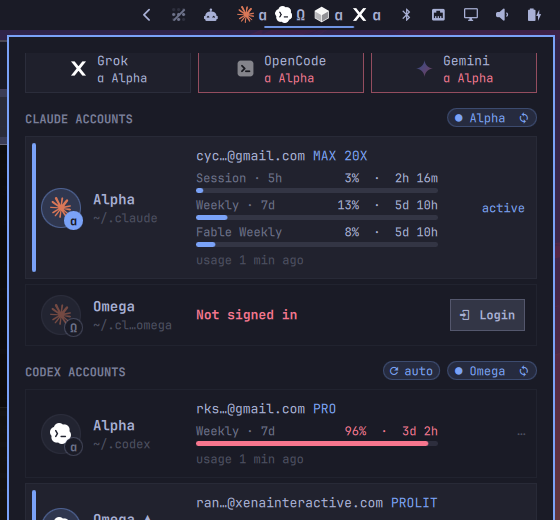
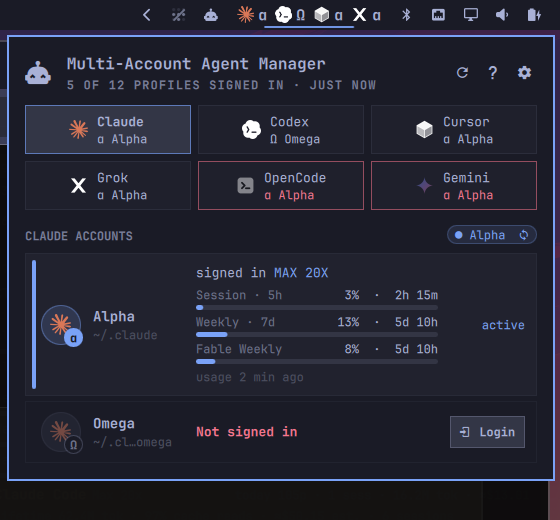
Reset scroll on view change; refreshed screenshots

diff --git a/Panel.qml b/Panel.qml
@@ -52,6 +52,7 @@ Panel {
 
   // ---- panel state: which view, which tool tab ----
   property string view: "accounts"          // "accounts" | "settings"
+  onViewChanged: panelFlick.contentY = 0
   property string selectedToolId: ""
   readonly property int selectedToolIndex: {
     for (var i = 0; i < tools.length; i++) if (tools[i].id === selectedToolId) return i
@@ -340,7 +341,7 @@ Panel {
     focusTarget: keyCatcher
     contentWidth: panel.fittedContentWidth(Style.space(470))
     contentHeight: panel.fittedContentHeight(column.implicitHeight, Style.space(root.view === "settings" ? 980 : 640))
-    onOpenChanged: if (open) { root.view = "accounts"; if (root.selectedToolId === "" && root.tools.length) root.selectedToolId = root.tools[0].id }
+    onOpenChanged: if (open) { root.view = "accounts"; panelFlick.contentY = 0; if (root.selectedToolId === "" && root.tools.length) root.selectedToolId = root.tools[0].id }
 
     PanelKeyCatcher {
       id: keyCatcher
